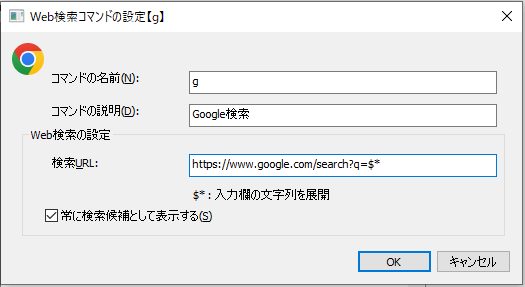
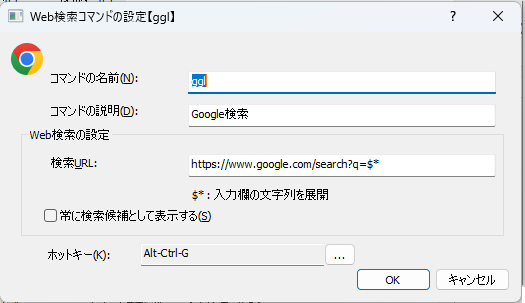
Web検索コマンドのショートカットキーに対応

diff --git a/soyokaze/commands/websearch/WebSearchCommand.cpp b/soyokaze/commands/websearch/WebSearchCommand.cpp
@@ -8,6 +8,8 @@
 #include "utility/LastErrorString.h"
 #include "setting/AppPreference.h"
 #include "commands/core/CommandFile.h"
+#include "hotkey/CommandHotKeyManager.h"
+#include "hotkey/CommandHotKeyMappings.h"
 #include "icon/IconLoader.h"
 #include "SharedHwnd.h"
 #include "resource.h"
@@ -208,21 +210,31 @@ int WebSearchCommand::EditDialog(const Parameter*)
 		return 0;
 	}
 
-	param = dlg.GetParam();
+	// ホットキー登録をいったん削除
+	auto hotKeyManager = launcherapp::core::CommandHotKeyManager::GetInstance();
 
-	// 名前が変わっている可能性があるため、いったん削除して再登録する
+	CommandHotKeyMappings hotKeyMap;
+	hotKeyManager->GetMappings(hotKeyMap);
 
-	AddRef();
-	// UnregisterCommandのときに参照カウント-1されるので、削除を防ぐために+1しておく
-	// RegisterCommandの際は呼び出し側が参照カウントを上げる
-
-	auto cmdRepo = launcherapp::core::CommandRepository::GetInstance();
-	cmdRepo->UnregisterCommand(this);
+	if (in->mParam.mHotKeyAttr.IsValid()) {
+		hotKeyMap.RemoveItem(in->mParam.mHotKeyAttr);
+	}
 
 	in->mParam = param;
+
+	auto cmdRepo = launcherapp::core::CommandRepository::GetInstance();
+	cmdRepo->ReregisterCommand(this);
+
 	in->mIcon = nullptr;
 
-	cmdRepo->RegisterCommand(this);
+	// ホットキー設定を更新
+	if (in->mParam.mHotKeyAttr.IsValid()) {
+		hotKeyMap.AddItem(in->mParam.mName, in->mParam.mHotKeyAttr, in->mParam.mIsGlobal);
+	}
+	auto pref = AppPreference::Get();
+	pref->SetCommandKeyMappings(hotKeyMap);
+	pref->Save();
+
 
 	return 0;
 }
@@ -276,6 +288,10 @@ bool WebSearchCommand::Load(CommandEntryIF* entry)
 	in->mParam.mIsEnableShortcut = entry->Get(_T("IsEnableShortcut"), false);
 	entry->Get(_T("IconData"), in->mParam.mIconData);
 
+	// ホットキー情報の取得
+	auto hotKeyManager = launcherapp::core::CommandHotKeyManager::GetInstance();
+	hotKeyManager->GetKeyBinding(in->mParam.mName, &in->mParam.mHotKeyAttr,&in->mParam.mIsGlobal); 
+
 	return true;
 }
 
@@ -301,6 +317,22 @@ bool WebSearchCommand::NewDialog(
 	command->in->mParam = commandParam;
 
 	newCmd = std::move(command);
+
+	// ホットキー設定を更新
+	if (commandParam.mHotKeyAttr.IsValid()) {
+
+		auto hotKeyManager = launcherapp::core::CommandHotKeyManager::GetInstance();
+		CommandHotKeyMappings hotKeyMap;
+		hotKeyManager->GetMappings(hotKeyMap);
+
+		hotKeyMap.AddItem(commandParam.mName, commandParam.mHotKeyAttr, commandParam.mIsGlobal);
+
+		auto pref = AppPreference::Get();
+		pref->SetCommandKeyMappings(hotKeyMap);
+
+		pref->Save();
+	}
+
 
 	return true;
 }

diff --git a/soyokaze/commands/websearch/WebSearchSettingDialog.cpp b/soyokaze/commands/websearch/WebSearchSettingDialog.cpp
@@ -4,6 +4,7 @@
 #include "icon/IconLabel.h"
 #include "icon/IconLoader.h"
 #include "commands/common/CommandEditValidation.h"
+#include "hotkey/CommandHotKeyDialog.h"
 #include "utility/ScopeAttachThreadInput.h"
 #include "utility/Accessibility.h"
 #include "resource.h"
@@ -37,6 +38,8 @@ struct SettingDialog::PImpl
 
 	HICON mIcon = nullptr;
 	std::unique_ptr<IconLabel> mIconLabelPtr;
+
+	CString mHotKey;
 };
 
 ////////////////////////////////////////////////////////////////////////////////
@@ -81,12 +84,14 @@ void SettingDialog::DoDataExchange(CDataExchange* pDX)
 	DDX_Text(pDX, IDC_EDIT_DESCRIPTION, in->mParam.mDescription);
 	DDX_Text(pDX, IDC_EDIT_URL, in->mParam.mURL);
 	DDX_Check(pDX, IDC_CHECK_ENABLESHORTCUT, in->mIsEnableShortcut);
+	DDX_Text(pDX, IDC_EDIT_HOTKEY, in->mHotKey);
 }
 
 BEGIN_MESSAGE_MAP(SettingDialog, launcherapp::gui::SinglePageDialog)
 	ON_EN_CHANGE(IDC_EDIT_NAME, OnUpdateStatus)
 	ON_EN_CHANGE(IDC_EDIT_URL, OnUpdateStatus)
 	ON_WM_CTLCOLOR()
+	ON_COMMAND(IDC_BUTTON_HOTKEY, OnButtonHotKey)
 	ON_MESSAGE(WM_APP + 11, OnUserMessageIconChanged)
 END_MESSAGE_MAP()
 
@@ -99,6 +104,8 @@ BOOL SettingDialog::OnInitDialog()
 	in->mIconLabelPtr->EnableIconChange();
 
 	in->mOrgName = in->mParam.mName;
+
+	in->mHotKey = in->mParam.mHotKeyAttr.ToString();
 
 	CString caption(_T("Web検索コマンドの設定"));
 
@@ -193,6 +200,23 @@ HBRUSH SettingDialog::OnCtlColor(CDC* pDC, CWnd* pWnd, UINT nCtlColor)
 		pDC->SetTextColor(crTxt);
 	}
 	return br;
+}
+
+void SettingDialog::OnButtonHotKey()
+{
+	UpdateData();
+
+	CommandHotKeyDialog dlg(in->mParam.mHotKeyAttr, in->mParam.mIsGlobal);
+	dlg.SetTargetName(in->mParam.mName);
+	if (dlg.DoModal() != IDOK) {
+		return ;
+	}
+
+	dlg.GetAttribute(in->mParam.mHotKeyAttr);
+	in->mParam.mIsGlobal = dlg.IsGlobal();
+	in->mHotKey = in->mParam.mHotKeyAttr.ToString();
+
+	UpdateData(FALSE);
 }
 
 LRESULT SettingDialog::OnUserMessageIconChanged(WPARAM wp, LPARAM lp)

diff --git a/soyokaze/commands/websearch/WebSearchSettingDialog.h b/soyokaze/commands/websearch/WebSearchSettingDialog.h
@@ -34,6 +34,7 @@ protected:
 	DECLARE_MESSAGE_MAP()
 	afx_msg HBRUSH OnCtlColor(CDC* pDC, CWnd* pWnd, UINT nCtlColor);
 	afx_msg void OnUpdateStatus();
+	afx_msg void OnButtonHotKey();
 	afx_msg LRESULT OnUserMessageIconChanged(WPARAM wp, LPARAM lp);
 
 protected:

diff --git a/soyokaze/commands/websearch/WebSearchCommandParam.h b/soyokaze/commands/websearch/WebSearchCommandParam.h
@@ -21,6 +21,9 @@ public:
 
 	CString mURL;
 
+	HOTKEY_ATTR mHotKeyAttr;
+	bool mIsGlobal;
+
 	bool mIsEnableShortcut;
 
 	// アイコンデータ(空の場合はデフォルトアイコンを使用)

diff --git a/soyokaze/commands/websearch/WebSearchCommandParam.cpp b/soyokaze/commands/websearch/WebSearchCommandParam.cpp
@@ -7,7 +7,7 @@ namespace commands {
 namespace websearch {
 
 CommandParam::CommandParam() :
-	mIsEnableShortcut(false)
+	mIsEnableShortcut(false), mIsGlobal(false)
 {
 }
 

diff --git a/doc/help.md b/doc/help.md
@@ -752,6 +752,10 @@ Web検索を行うためのコマンド。
   - チェックすると、コマンド名を入力しなくても、検索ワードを入れるだけで候補として表示されるようになる
 ![](../image/shortcut-search.png)
   - 検索URLに`$*`を入力したときだけ表示される  
+- `ホットキー`
+  - コマンドを呼び出すキーバインドを設定できる。  
+設定したキーを押下すると、入力欄が表示され、コマンド名が入力された(キーワードで絞り込みができる）状態になる
+  - 他のコマンドにおけるホットキーはコマンド実行として作用するが、このコマンドに関しては短縮入力みたいな位置づけ
 - 左上のアイコン欄  
 アイコン欄を右クリックすると、コンテキストメニューが表示される。  
 ![](../image/websearchcommand-contextmenu.png)

diff --git a/CHANGELOG.md b/CHANGELOG.md
@@ -6,6 +6,7 @@
 
 - Everything検索コマンドでSDK機能を使わない方法を実装
   - Liteを使っている環境向けの機能
+- Web検索コマンドに対するホットキー設定を追加
 
 ## Changed
 
